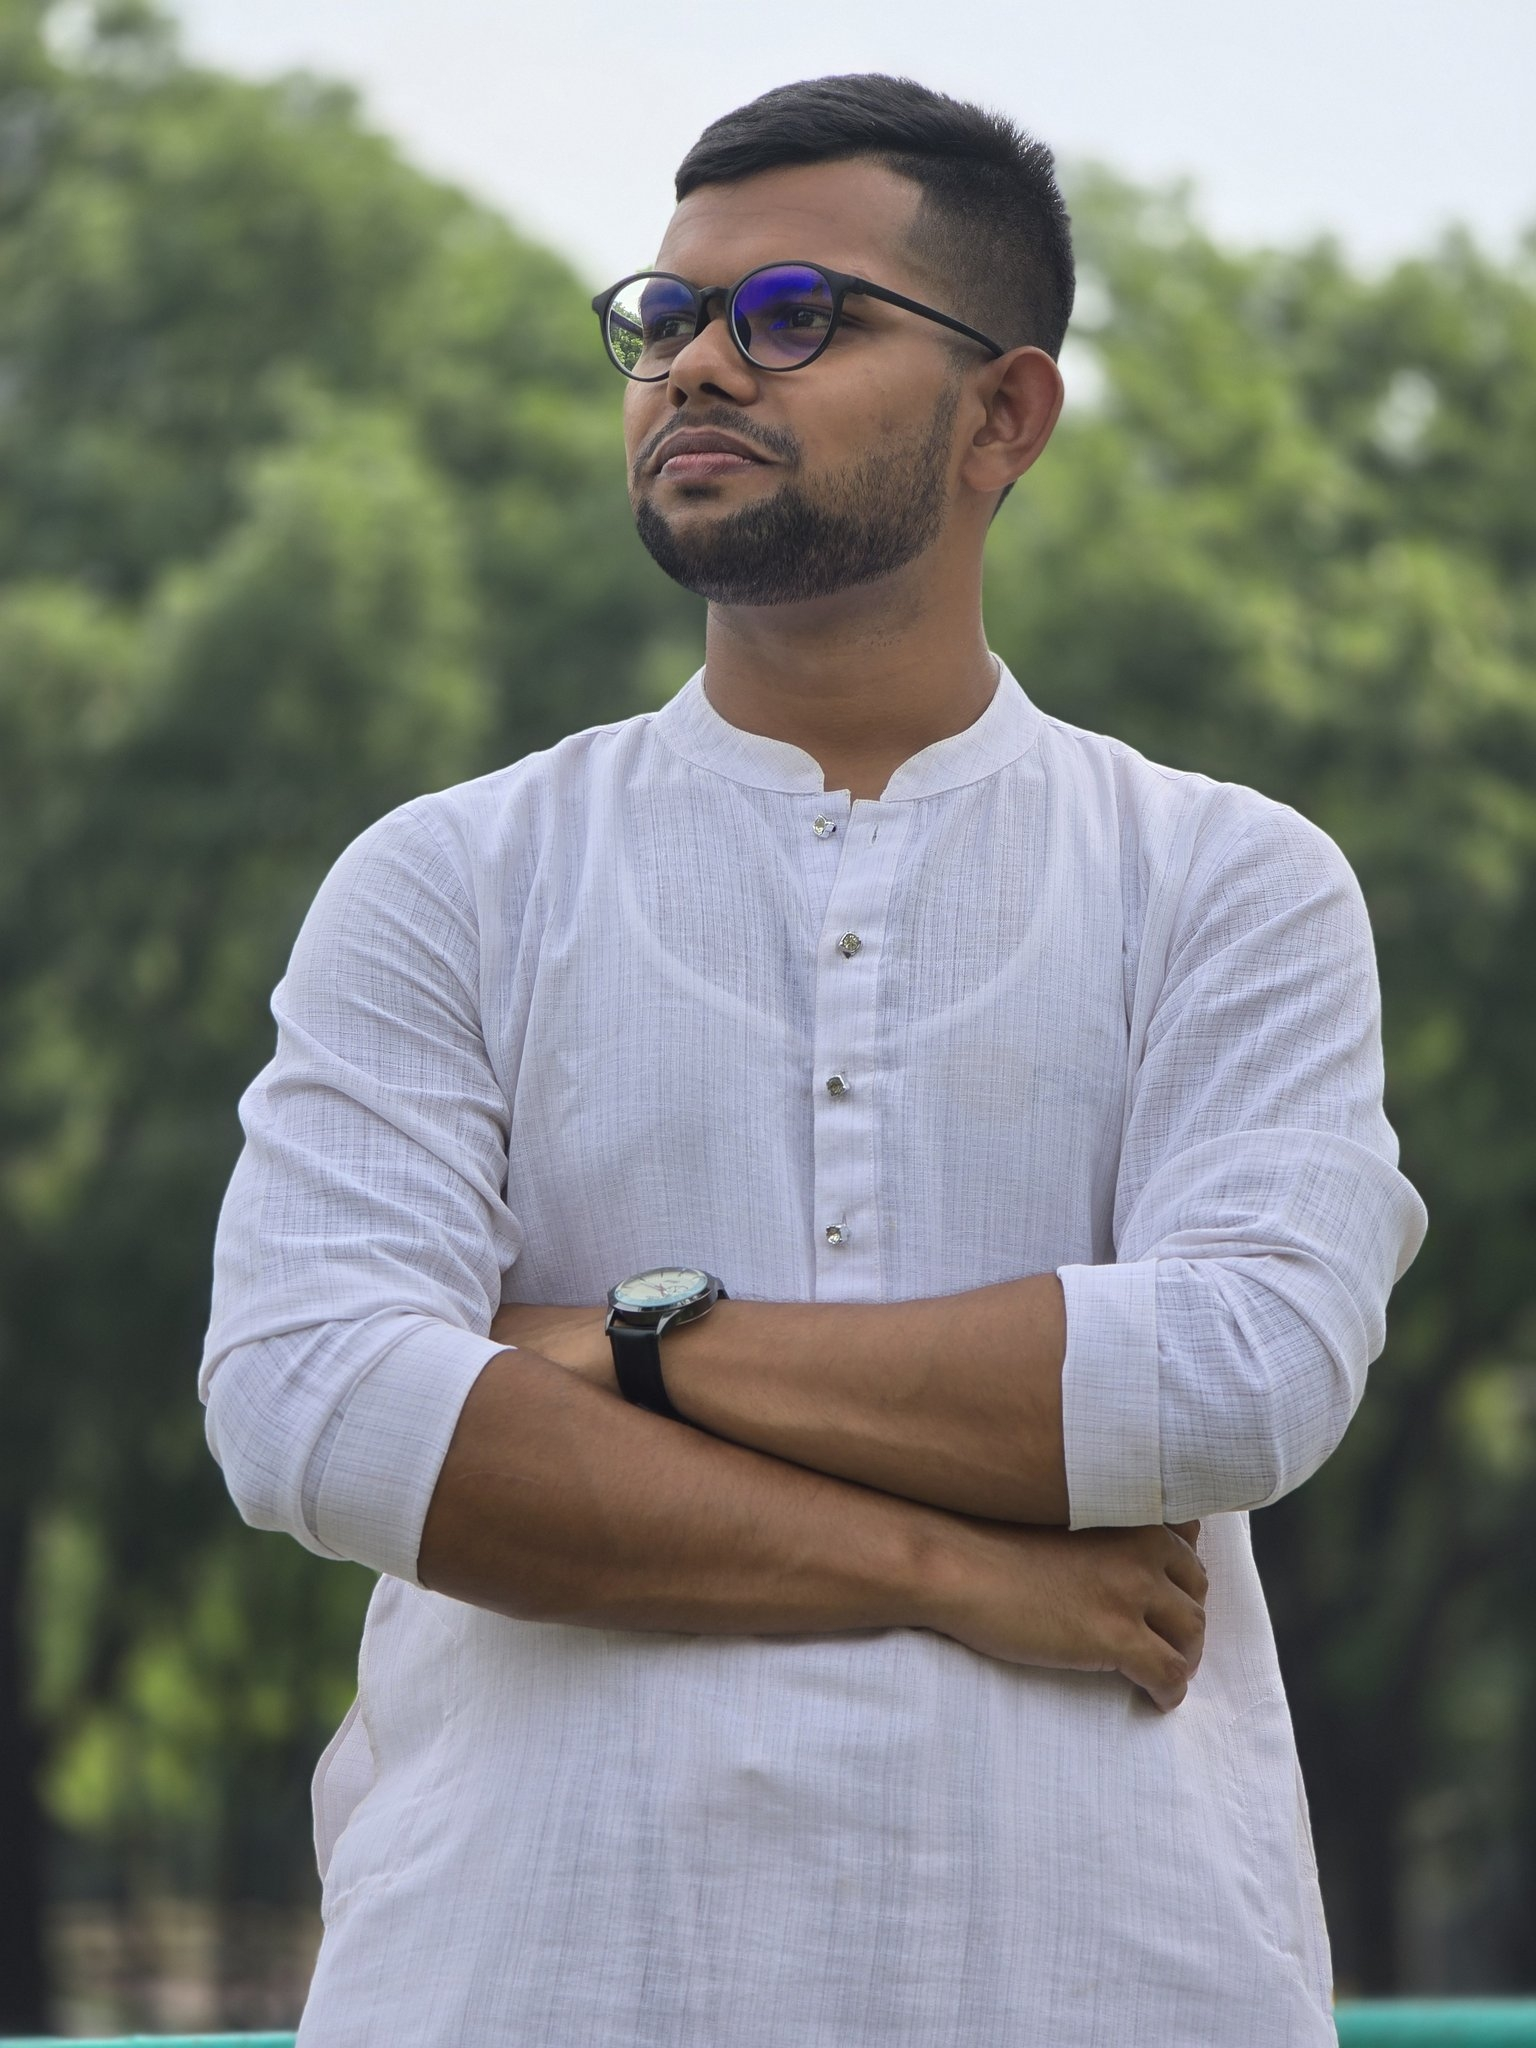
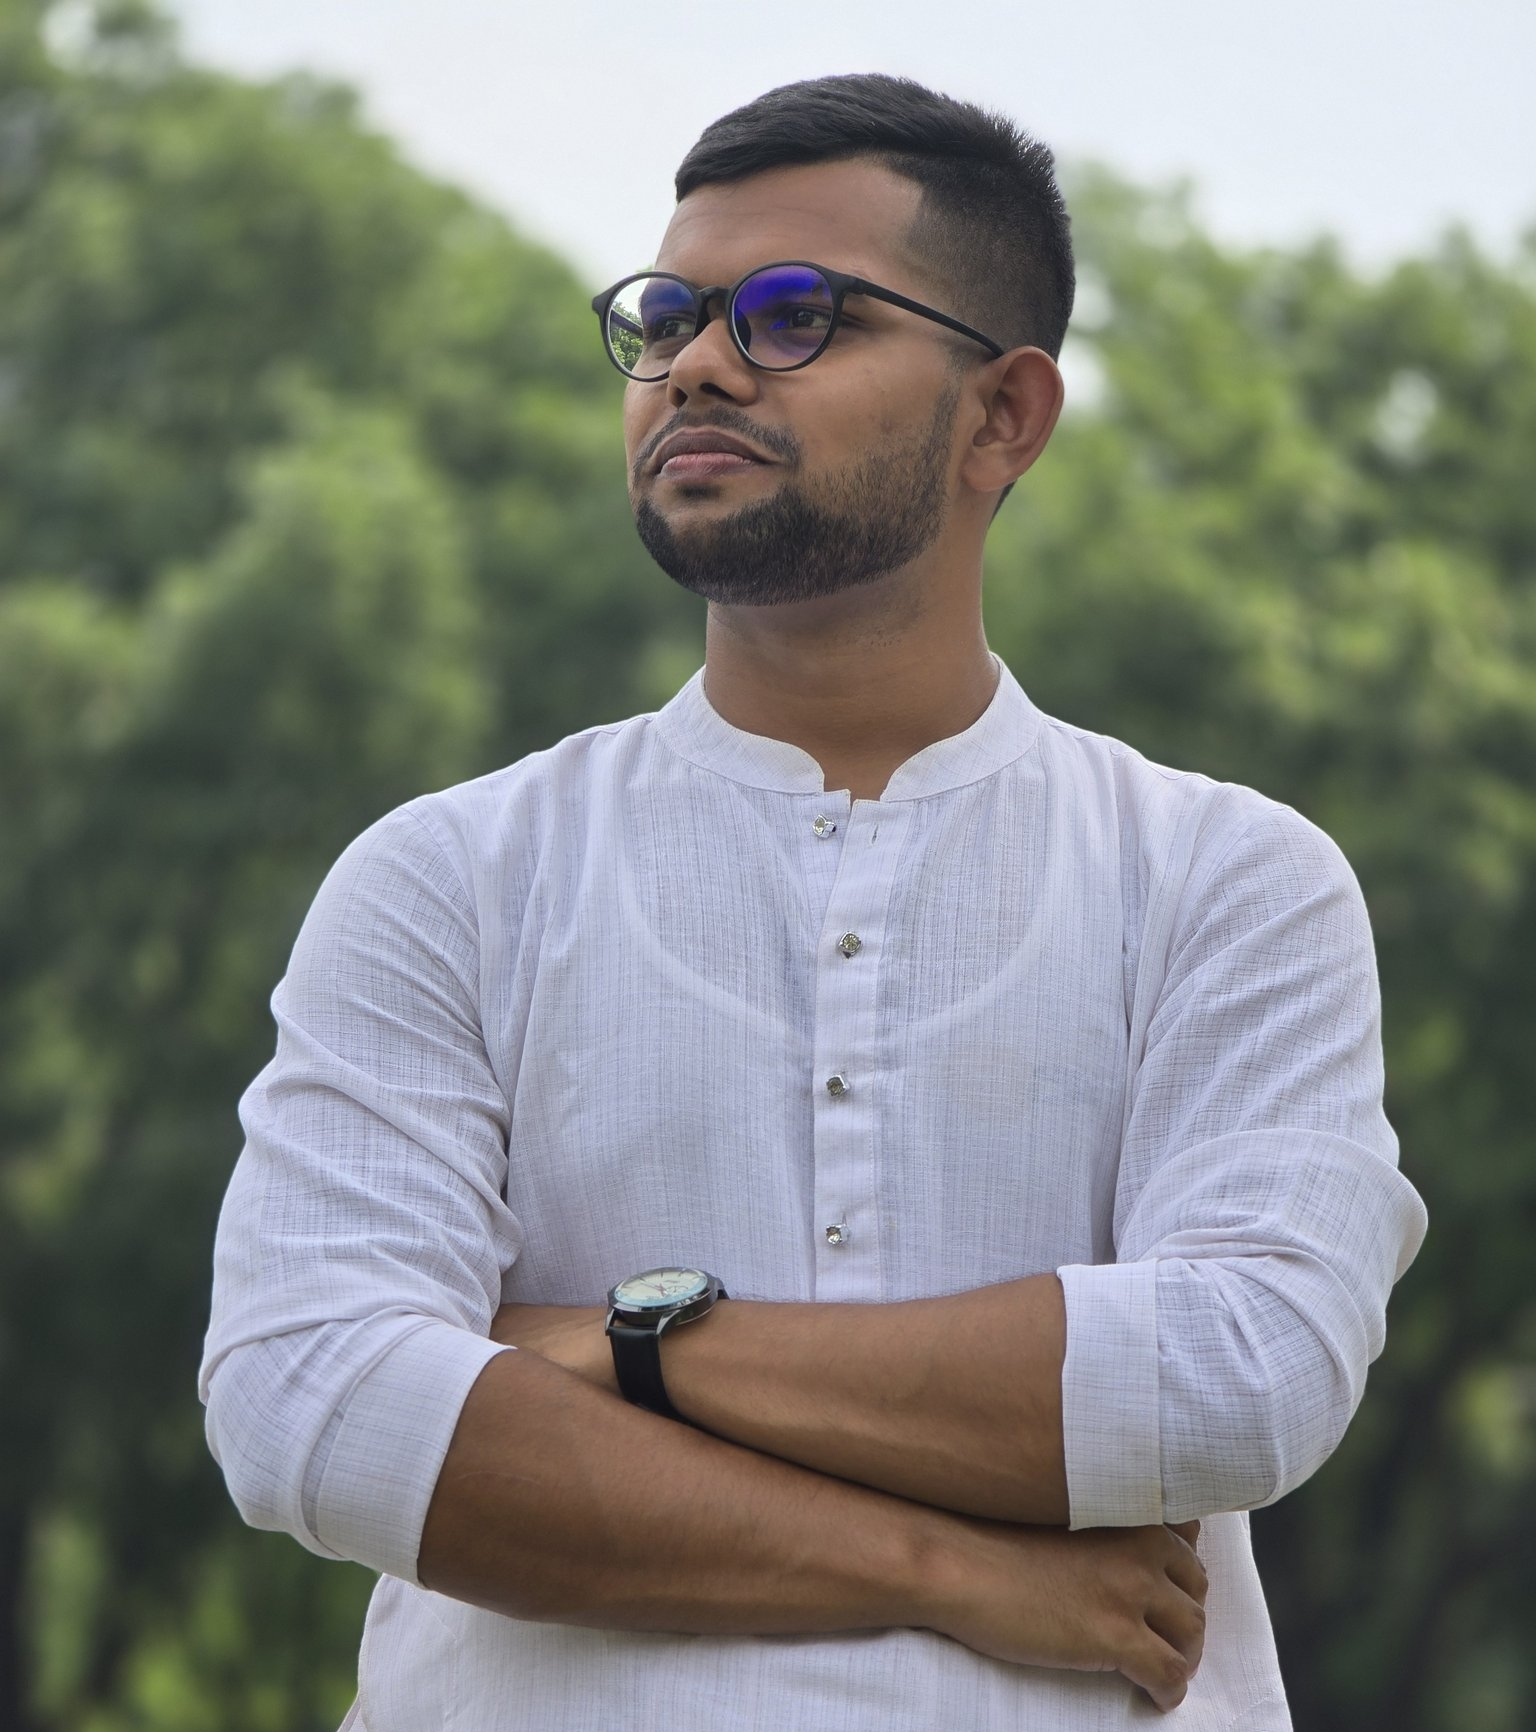
feat(home): implement FocusCards component and update HomeOurTeam to use it feat(components): add @aceternity registry to components.json fix(HomeBanner): adjust margin for better layout

diff --git a/src/components/ui/focus-cards.tsx b/src/components/ui/focus-cards.tsx
@@ -1,0 +1,74 @@
+"use client";
+
+import React, { useState } from "react";
+import { cn } from "@/lib/utils";
+import Image from "next/image";
+
+export type CardType = {
+  name: string;
+  image: string;
+  imagePosition?: string;
+};
+
+export const Card = React.memo(
+  ({
+    card,
+    index,
+    hovered,
+    setHovered,
+  }: {
+    card: CardType;
+    index: number;
+    hovered: number | null;
+    setHovered: React.Dispatch<React.SetStateAction<number | null>>;
+  }) => (
+    <div
+      onMouseEnter={() => setHovered(index)}
+      onMouseLeave={() => setHovered(null)}
+      className={cn(
+        "rounded-lg relative bg-gray-100 dark:bg-neutral-900 overflow-hidden h-60 md:h-96 w-full transition-all duration-300 ease-out",
+        hovered !== null && hovered !== index && "blur-sm scale-[0.98]",
+      )}
+    >
+      <Image
+        src={card.image}
+        alt={card.name}
+        fill
+        className={cn(
+          "absolute inset-0 w-full h-full object-cover",
+          card.imagePosition ?? "object-top",
+        )}
+      />
+      <div
+        className={cn(
+          "absolute inset-0 bg-black/50 flex items-end py-8 px-4 transition-opacity duration-300",
+          hovered === index ? "opacity-100" : "opacity-0",
+        )}
+      >
+        <div className="text-xl md:text-2xl font-medium bg-clip-text text-transparent bg-linear-to-b from-neutral-50 to-neutral-200">
+          {card.name}
+        </div>
+      </div>
+    </div>
+  ),
+);
+
+Card.displayName = "Card";
+
+export function FocusCards({ cards }: { cards: CardType[] }) {
+  const [hovered, setHovered] = useState<number | null>(null);
+
+  return (
+    <div className="grid grid-cols-1 md:grid-cols-3 lg:grid-cols-4 gap-10 max-w-7xl mx-auto md:px-8 w-full">
+      {cards.map((card, index) => (
+        <Card
+          key={card.name}
+          card={card}
+          index={index}
+          hovered={hovered}
+          setHovered={setHovered}
+        />
+      ))}
+    </div>
+  );
+}

diff --git a/src/components/home/HomeOurTeam.tsx b/src/components/home/HomeOurTeam.tsx
@@ -4,6 +4,7 @@ import { TeamCarousel } from "./TeamCarousel";
 import { motion } from "framer-motion";
 import { fadeInUp } from "@/utils/transition";
 import SplitText from "../SplitText";
+import { FocusCards } from "../ui/focus-cards";
 
 interface TechStack {
   src: string;
@@ -15,6 +16,7 @@ interface TeamMember {
   alt: string;
   description: string;
   techStacks: TechStack[];
+  imagePosition?: string;
 }
 
 export const HomeOurTeam = () => {
@@ -71,7 +73,10 @@ export const HomeOurTeam = () => {
             <p className="text-gray-600">Loading team members...</p>
           </div>
         ) : (
-          <TeamCarousel teamMembers={teamMembers} />
+          // <TeamCarousel teamMembers={teamMembers} />
+          <div className="my-10">
+            <FocusCards cards={teamMembers} />
+          </div>
         )}
       </div>
     </motion.div>

diff --git a/src/components/home/HomeBanner.tsx b/src/components/home/HomeBanner.tsx
@@ -77,7 +77,7 @@ export const HomeBanner = () => {
             </div>
           </div>
 
-          <div className="relative w-full lg:w-1/2 flex items-center justify-center min-h-75 lg:min-h-100 z-10">
+          <div className="relative mt-20 lg:mt-0 w-full lg:w-1/2 flex items-center justify-center min-h-75 lg:min-h-100 z-10">
             {/* Background glowing rings */}
             <motion.div
               className="absolute w-62.5 h-62.5 md:w-[320px] md:h-80 rounded-full border-2 border-dashed border-primary/20"
